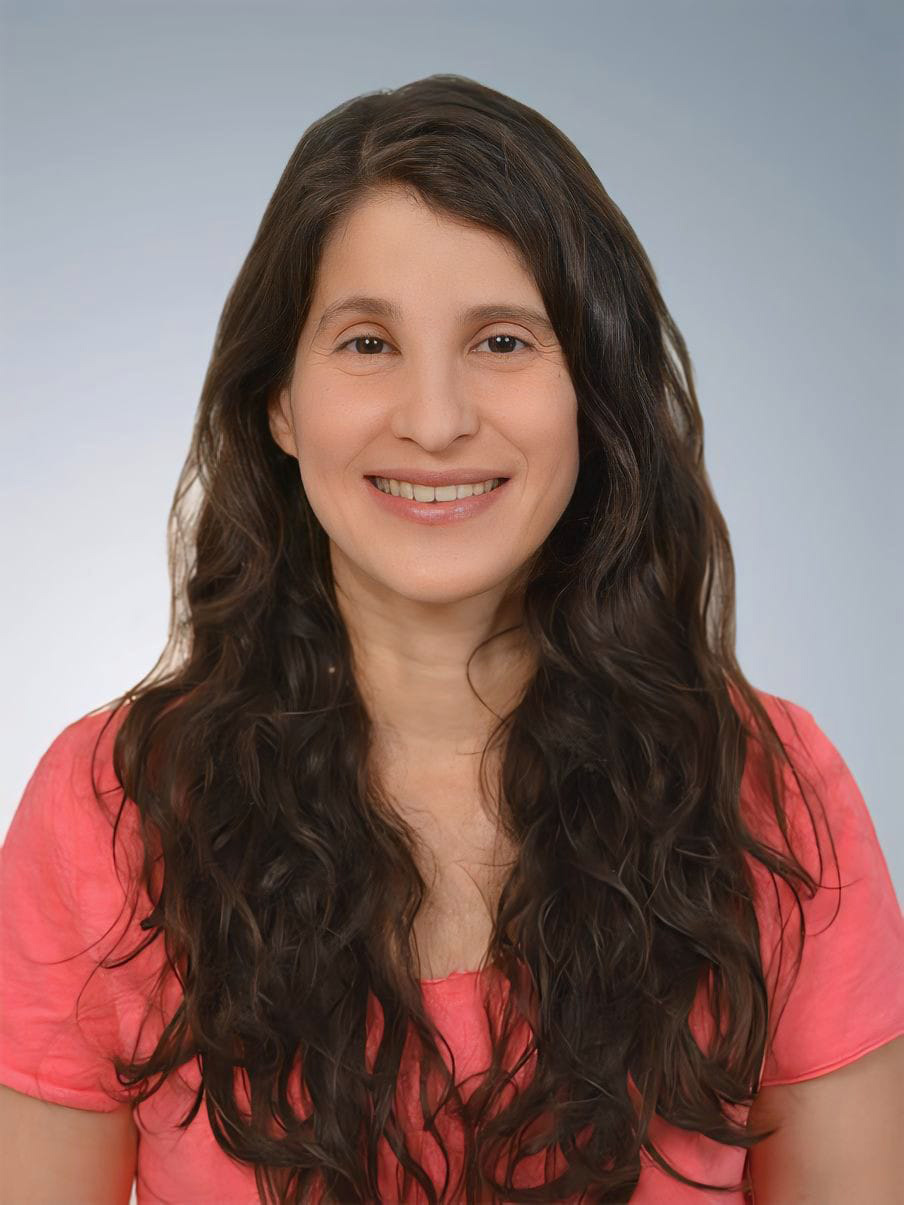
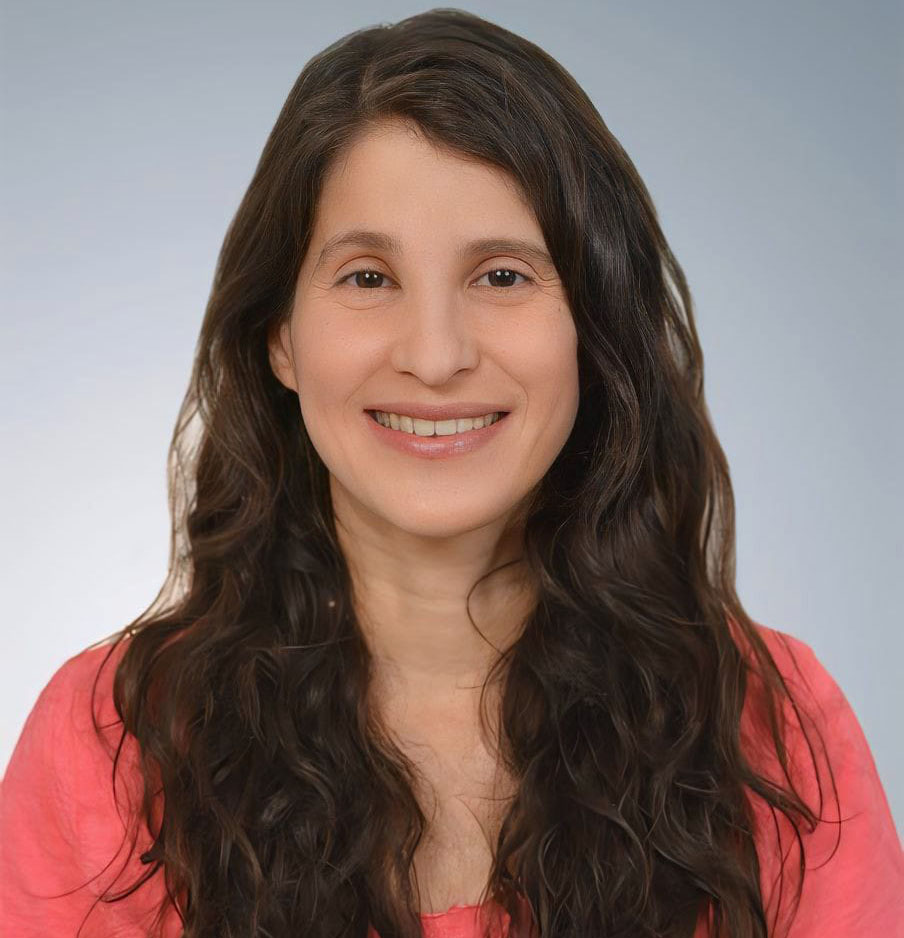
update colors

diff --git a/src/index.css b/src/index.css
@@ -1,13 +1,15 @@
 html {
   box-sizing: border-box;
 }
-*, *:before, *:after {
+*,
+*:before,
+*:after {
   box-sizing: inherit;
 }
 
 a {
-text-decoration: none;
-cursor: pointer;
+  text-decoration: none;
+  cursor: pointer;
 }
 
 body {
@@ -15,40 +17,39 @@ body {
   display: flex;
   justify-content: center;
   align-items: center;
-  background-color: #201c26;
+  background-color: #231e22;
   font-family: "Quattrocento Sans", sans-serif;
 }
 
 h1 {
   font-size: 2.2em;
-  color: #fff;
+  color: #f7f7f2;
   margin: 0;
 }
 
-
-h2{
-  font-size:1.5em ;
-  color: #fff;
+h2 {
+  font-size: 1.5em;
+  color: #f7f7f2;
   margin: 0;
 }
 
-p{
+p {
   padding: 0;
   margin: 0;
 }
 
-.card-container{
-  background-color: #2E2836;
+.card-container {
+  background-color: #3a3238;
   max-width: 22em;
 }
 
-.info-img{
+.info-img {
   width: 100%;
-  height: 18em;
-  object-fit: contain;
+  height: 26em;
+  object-fit: cover;
 }
 
-.info-content{
+.info-content {
   padding: 1.3em 2em 0 2em;
   display: flex;
   flex-direction: column;
@@ -56,29 +57,39 @@ p{
   align-items: center;
 }
 
-.info-role{
-  padding:0.4em;
-  color:#F3BF99;
+.info-role {
+  padding: 0.4em;
+  color: #f56565;
   font-size: 1.3em;
 }
 
-.info-link{
-  font-size:1em ;
-  color: #F5F5F5;
+.info-link {
+  font-size: 1em;
+  color: #f7f7f2;
   transition: all 0.2s ease-in-out;
+  position: relative;
 }
 
-
-.info-link:hover{
-   transform:scale(1.1);
-   color: #c4c4c4;
+.info-link::before {
+  position: absolute;
+  content: "";
+  background-color: #f56565;
+  height: 3px;
+  bottom: 1px;
+  z-index: -1;
+  width: 80%;
 }
 
-.info-link:active{
+.info-link:hover {
+  transform: scale(1.1);
+  color: #f9f9f5;
+}
+
+.info-link:active {
   color: #acacac;
 }
 
-.info-contact{
+.info-contact {
   padding: 1.31em 0 0 0;
   display: flex;
   justify-content: center;
@@ -87,82 +98,78 @@ p{
   text-align: center;
 }
 
-
-.info-contact-link{
-    padding: 0.5em 2em;
-    color:#374151;
-    font-size: 1em;
-    border-radius: 0.3em;
-    border: 1px solid #F3BF99;
-    color: #F3BF99;
-    transition: all 0.2s ease-in-out;
+.info-contact-link {
+  padding: 0.5em 2em;
+  color: #374151;
+  font-size: 1em;
+  border-radius: 0.3em;
+  border: 1px solid #f56565;
+  color: #f56565;
+  transition: all 0.2s ease-in-out;
 }
 
-.info-contact-link:hover{
-  background-color: #292431;
+.info-contact-link:hover {
+  background-color: #342d32;
   transform: scale(1.05);
 }
 
-
-.info-contact-link:active{
-  background-color: #201c26;
- 
+.info-contact-link:active {
+  background-color: #342d32;
 }
-.icon-link{
+.icon-link {
   margin-right: 0.5em;
 }
 
-.info-contact-link--linkedin{
-   color: #fff;
-   background-color: #0073B1;
-   border: 1px solid #0073B1;
+.info-contact-link--linkedin {
+  color: #f7f7f2;
+  background-color: #0073b1;
+  border: 1px solid #0073b1;
 }
 
-.info-contact-link--linkedin:hover{
+.info-contact-link--linkedin:hover {
   background-color: #00689f;
 }
 
-.info-contact-link--linkedin:active{
+.info-contact-link--linkedin:active {
   background-color: #00517c;
 }
 
-
-.sec-about{
+.sec-about {
   padding: 2em 2em 0 2em;
 }
 
-.sec-interests{
+.sec-interests {
   padding: 1.68em 2em 2em 2em;
 }
 
-.section-text{
+.section-text {
   line-height: 1.5;
   font-size: 0.95em;
-  color: #DCDCDC;
+  color: #f7f7f2;
   padding: 0.6em 0 0 0;
 }
 
-.card-footer-nav{
+.card-footer-nav {
   display: flex;
   justify-content: center;
   align-items: center;
   column-gap: 1em;
-  background-color: #F3BF99;
+  background-color: #f56565;
   padding: 1em 0;
 }
 
-.icon-social{
-  color: #2E2836;
+.icon-social {
+  color: #292327;
   font-size: 1.7em;
   transition: all 0.2s ease-in-out;
 }
 
-.icon-social:hover{
-  color: #292431;
+.icon-social:hover {
+  color: #110f11;
   transform: scale(1.1);
 }
-.icon-social:active{
-  color: #17141b;
+.icon-social:active {
+  color: #110f11;
 }
 
 .sr-only {

diff --git a/src/Info.jsx b/src/Info.jsx
@@ -1,27 +1,48 @@
-import carla from './assets/carlam.jpg'
+import carla from "./assets/carla.jpg";
 
-function Info(){
-    return (
-        <header>
-            <img src={carla} alt="Carla" className='info-img'/>
-            <div className='info-content'>
-                <h1>Carla Martins</h1>
-                 <p className='info-role'>Frontend Developer</p>
-                <a href='https://my-portafolio-journal.netlify.app/' target="_blank" rel="noopener noreferrer"className='info-link'> My Portafolio Journal</a>
-                <nav className='info-contact' aria-label='Contact İnformation'>
-                    <a href="mailto:carlasmartinsr@gmail.com" className='info-contact-link'>
-                        <i className="icon-link fa-solid fa-envelope" aria-hidden="true"></i>
-                         <span >Mail</span>
-                    </a>
-                     <a href="https://www.linkedin.com/in/carla-martins-378a0223b" target="_blank" rel="noopener noreferrer" className='info-contact-link info-contact-link--linkedin'>
-                         <i className="icon-link fa-brands fa-linkedin" aria-hidden="true"></i>
-                        <span >Linkedin</span> 
-                    </a>
-                </nav>
-            </div>
-        </header>
-    )
+function Info() {
+  return (
+    <header>
+      <img src={carla} alt="Carla" className="info-img" />
+      <div className="info-content">
+        <h1>Carla Martins</h1>
+        <p className="info-role">Frontend Developer</p>
+        <a
+          href="https://my-portafolio-journal.netlify.app/"
+          target="_blank"
+          rel="noopener noreferrer"
+          className="info-link"
+        >
+          {" "}
+          My Portafolio Journal
+        </a>
+        <nav className="info-contact" aria-label="Contact İnformation">
+          <a
+            href="mailto:carlasmartinsr@gmail.com"
+            className="info-contact-link"
+          >
+            <i
+              className="icon-link fa-solid fa-envelope"
+              aria-hidden="true"
+            ></i>
+            <span>Mail</span>
+          </a>
+          <a
+            href="https://www.linkedin.com/in/carla-martins-378a0223b"
+            target="_blank"
+            rel="noopener noreferrer"
+            className="info-contact-link info-contact-link--linkedin"
+          >
+            <i
+              className="icon-link fa-brands fa-linkedin"
+              aria-hidden="true"
+            ></i>
+            <span>Linkedin</span>
+          </a>
+        </nav>
+      </div>
+    </header>
+  );
 }
 
-export default Info
-
+export default Info;
